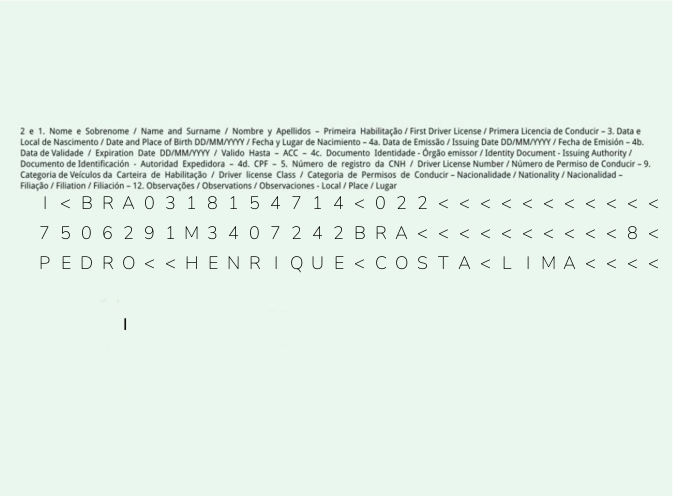
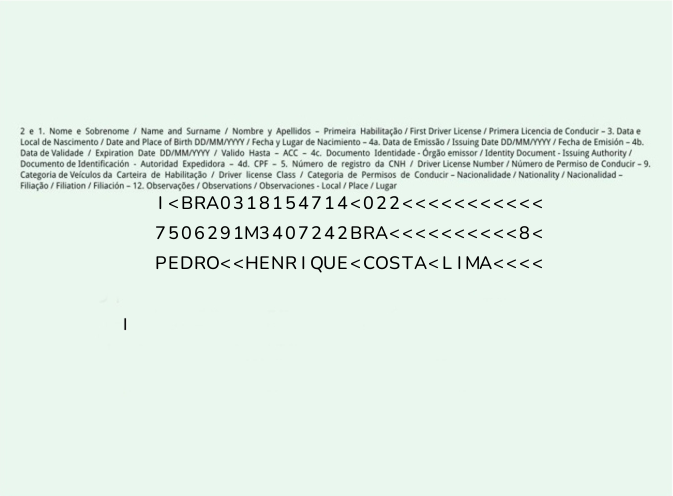
ajuste linha cnh-linha

diff --git a/services/cnh_generator.py b/services/cnh_generator.py
@@ -1679,14 +1679,14 @@ class CNHImageGenerator:
                 char_width = bbox[2] - bbox[0]
                 max_char_width = max(max_char_width, char_width)
             
-            # Usar a largura do maior caractere como largura fixa
-            fixed_char_width = max_char_width
+            # Usar largura reduzida (85%) para diminuir espaçamento sem sobreposição
+            fixed_char_width = int(max_char_width * 0.60)  # 85% do tamanho original
             
             # Largura total = (largura_fixa * 30) + (espaçamento * 29)
             char_spacing = MRZ_CONFIG['char_spacing']
             total_width = (fixed_char_width * 30) + (char_spacing * 29)
             
-            logger.info(f"📏 Largura fixa calculada: char_fixo={fixed_char_width}px, espaçamento={char_spacing}px, total={total_width}px")
+            logger.info(f"📏 Largura otimizada: original={max_char_width}px, reduzida={fixed_char_width}px (85%), espaçamento={char_spacing}px, total={total_width}px")
             return total_width, fixed_char_width
             
         except Exception as e:
